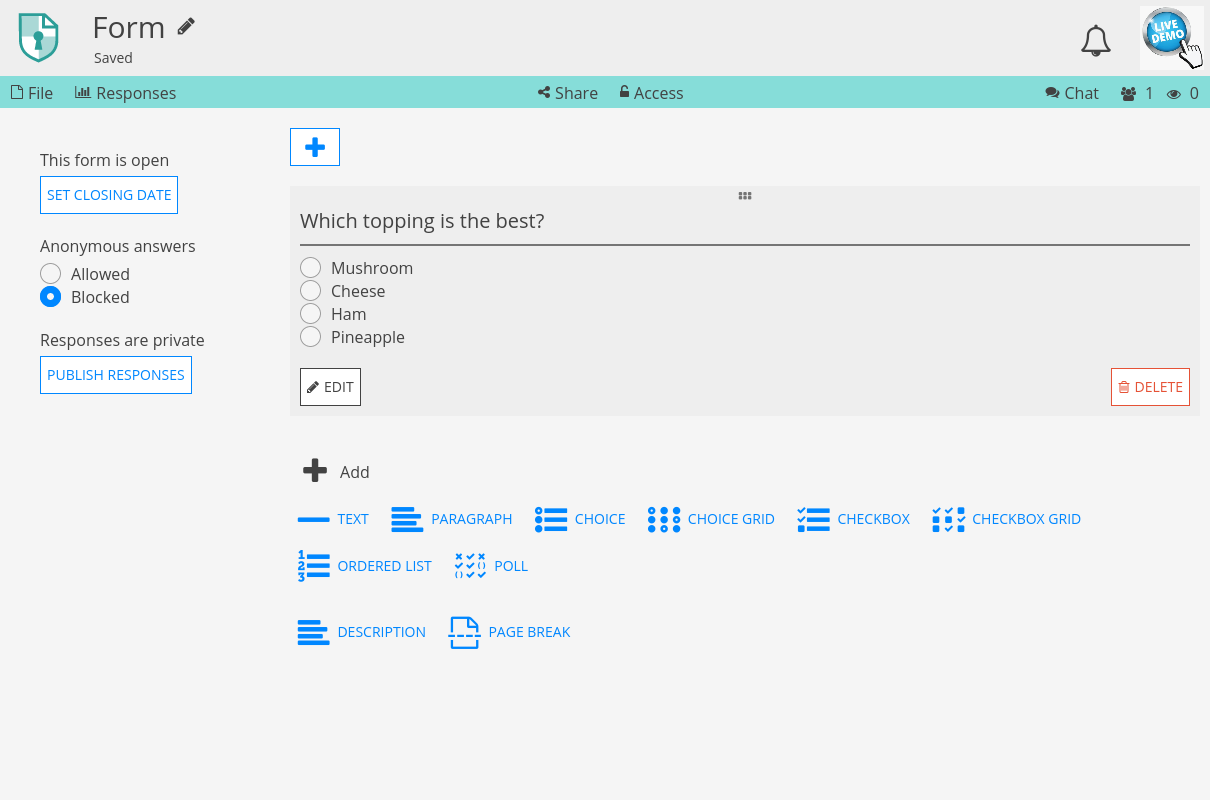
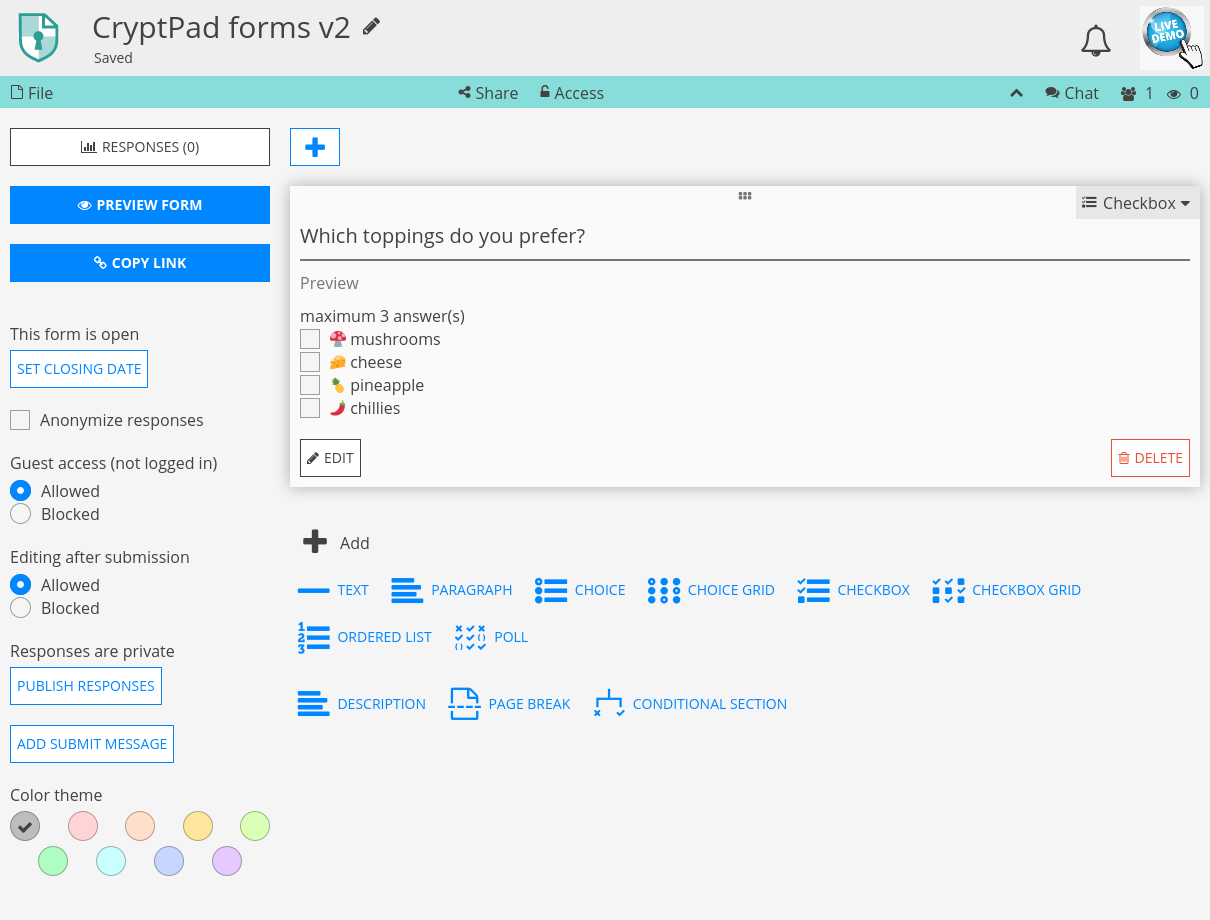
Update form screenshot + minor edits

diff --git a/user_guide/apps/form.rst b/user_guide/apps/form.rst
@@ -9,18 +9,6 @@ Form
    :class: screenshot
    :alt: preview of the Form application
 
-.. note::
-
-    The Form application is currently in Beta. More features are planned for the near future including:
-
-    * import/export
-    * better visualization for responses
-    * more options
-
-        * different ways of counting ranked ballots
-
-    * author notifications
-
 
 Roles
 -----
@@ -70,14 +58,13 @@ Split the form into pages. Only displayed to participants.
 
 :badge_new:`New in version 4.11`
 
-.. XXX add screenshot of condition e.g. an "other" question
 
 |cptools form-list-radio| **Choice** and |cptools form-list-check| **Checkbox** questions can be used to display or hide a section of questions.
 
 1. In the form editor, use the |plus| **Add** buttons between questions, or the list at the bottom of the form, to add a |cptools form-conditional| **Conditional Section**.
 2. Ensure that there is at least one :ref:`form_Q_choice` or :ref:`form_Q_checkbox` before the section (a hint will be displayed if not). Only questions placed *before* the section will be available to use in the conditions.
 3. Add some content (description text, questions) to the section using the |plus| **Add** button or by dragging questions into the section area.
-4. Set some conditions using the selection menus (see screenshot above). AND conditions must all be true together, only of the OR conditions needs to be true.
+4. Set some conditions using the selection menus. AND conditions must all be true together, only of the OR conditions needs to be true.
 5. In the participant view, the section will only be displayed if the conditions are true.
 
 
